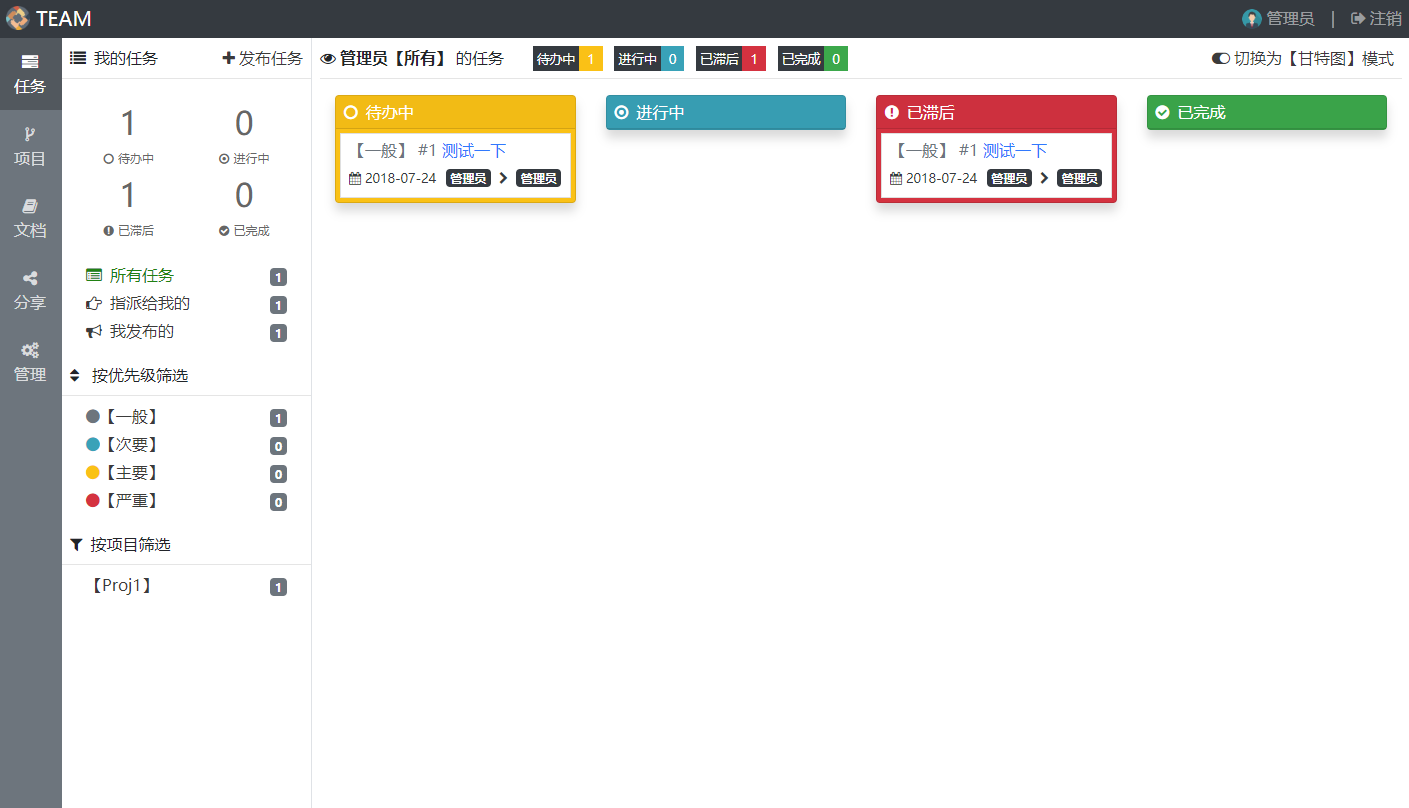
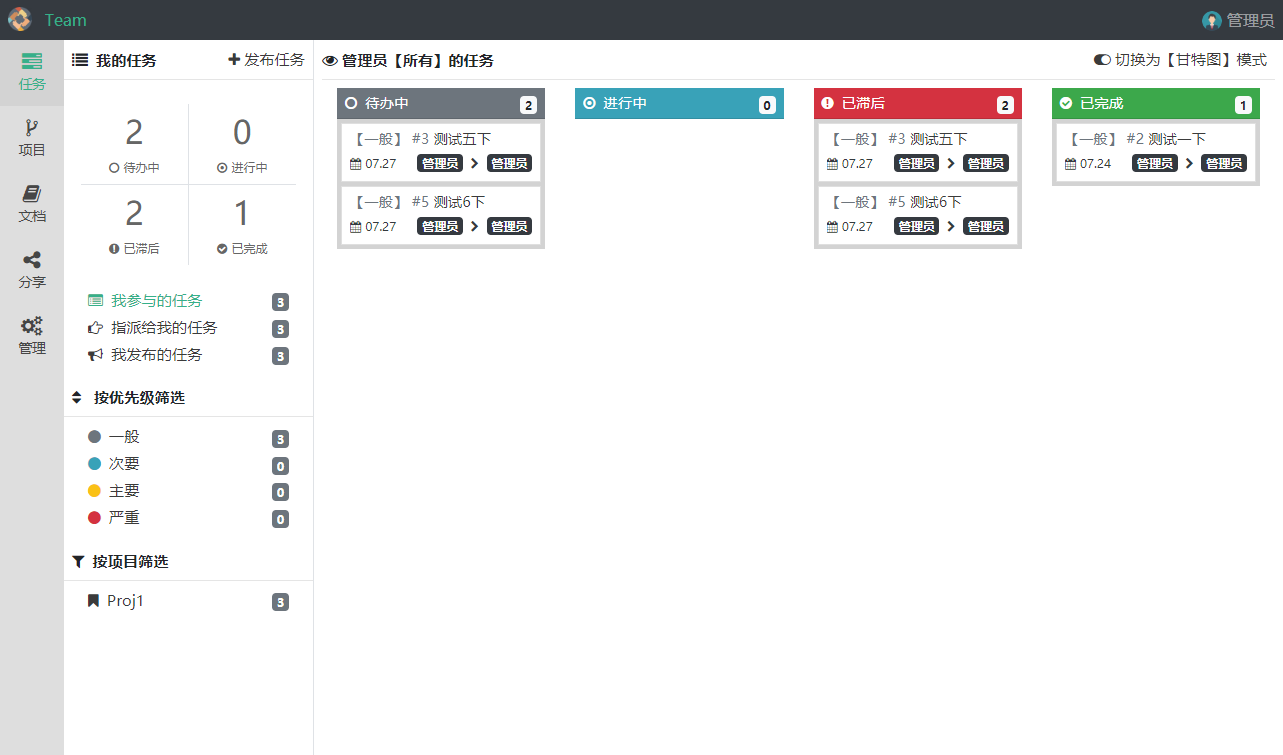
update doc

Changed region(s): [[0.0, 0.0, 1.0, 1.0], [0.1871, 0.7616, 0.2494, 0.8225]]

diff --git a/README.md b/README.md
@@ -15,21 +15,33 @@
     * 项目视图中的任务列表
     * 任务的归档管理
 
-3. 归档操作，即是验收操作！
+3. 验收操作也是归档操作！
 
 ## 预览
 
-* 【看板】模式
+* 任务视图 - 【看板】模式
 ![Tasks](/preview/preview.png)
 
-* 【甘特图】模式
+* 任务视图 - 【甘特图】模式
 ![Gantt](/preview/gantt.png)
 
-* 发布任务预览
+* 任务视图 - 任务详情
+![TaskInfo](/preview/task.png)
+
+* 任务视图 - 发布任务预览
 ![Publish](/preview/publish.png)
 
-* 项目周报
+* 项目视图 - 项目周报
 ![Reports](/preview/reports.png)
+
+* 项目视图 - 验收管理
+![Archive](/preview/archive.png)
+
+* 项目视图 - 成员管理
+![Members](/preview/members.png)
+
+* 文档视图
+![Documents](/preview/documents.png)
 
 ## 使用技术
 
